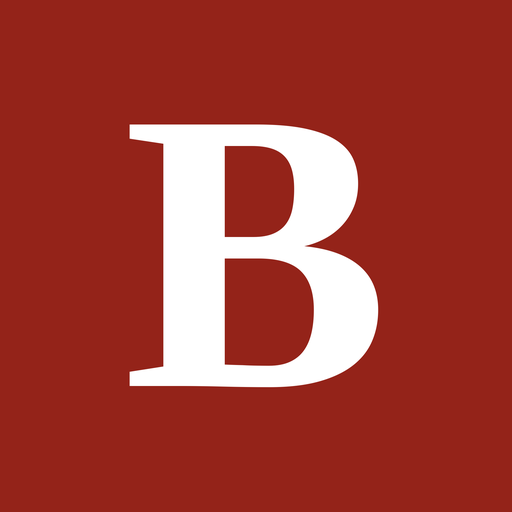
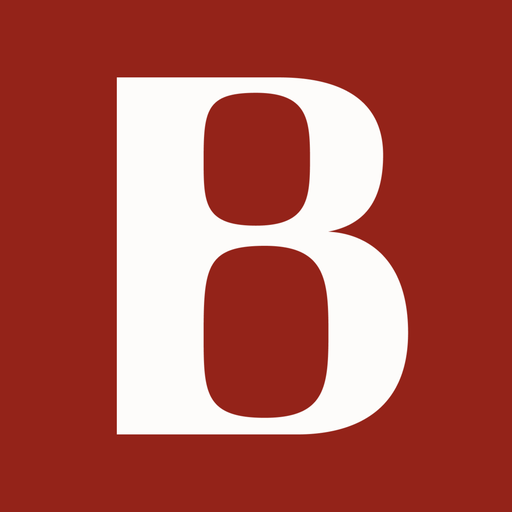
Wejscie na produkcje: ikony marki, mapa strony, roboty i adres kontaktowy
Ikona i obrazek do udostepniania sa teraz z materialow wlascicielki:
kwadratowe "B" jedzie do favicon.ico (z rozmiarem 48 px, po ktory siega
Google), icon-192/512 i apple-touch-icon, a lockup "badz BABA" do
og-image.jpg. Lockup jest w kadrze wysrodkowany, bo w oryginale stal
z prawej - w podgladzie linku wygladalo to jak blad, a nie jak kompozycja.

robots.txt wpuszcza roboty i wskazuje mape strony, sitemap.xml ma
dwadziescia adresow z hreflangami. Adresy sa co do znaku takie same jak
canonical skladany przez LanguageService - strona glowna po polsku
z ukosnikiem, angielska bez - bo rozjazd tych dwoch to dla wyszukiwarki
dwie rozne strony o tej samej tresci.

Adres kontaktowy to kontakt@baba-studio.pl. Dokumenty prawne zyja w bazie
i sa edytowalne z panelu, wiec poprawka w V16 nic by nie dala - stad V17,
ktora podmienia adres w wersji biezacej i zostawia rewizje w spokoju:
rewizja to zapis tego, na co ktos sie kiedys zgodzil.

Przy okazji: MAIL_FROM_NAME bylo opisane w .env.example i czytane przez
backend, ale docker-compose.yml go nie przekazywal, wiec wpis w .env nie
robil nic. Teraz jedzie do kontenera.

Changed region(s): [[0.2188, 0.125, 0.8125, 0.875]]

diff --git a/frontend/src/index.html b/frontend/src/index.html
@@ -7,8 +7,15 @@
   <meta name="viewport" content="width=device-width, initial-scale=1">
   <link rel="preconnect" href="https://app.fitssey.com">
   <link rel="dns-prefetch" href="https://app.fitssey.com">
-  <link rel="icon" type="image/x-icon" href="favicon.ico">
+  <!--
+    Trzy formaty ikony, bo każdy odbiorca sięga po inny: favicon.ico ma w środku
+    rozmiar 48 px, po który Google idzie do wyników wyszukiwania, plik PNG bierze
+    karta w przeglądarce, a apple-touch-icon - skrót dodany na ekran iPhone'a.
+  -->
+  <link rel="icon" type="image/x-icon" href="favicon.ico" sizes="48x48">
+  <link rel="icon" type="image/png" href="icon-192.png" sizes="192x192">
   <link rel="apple-touch-icon" href="apple-touch-icon.png">
+  <link rel="manifest" href="site.webmanifest">
   <!-- Kolor paska adresu na Androidzie - bierze firmową czerwień zamiast szarości. -->
   <meta name="theme-color" content="#942319">
 </head>

diff --git a/frontend/src/app/core/contact-details.ts b/frontend/src/app/core/contact-details.ts
@@ -9,12 +9,12 @@
  * osobna rzecz - te dwa adresy nie muszą być takie same.
  */
 export const CONTACT_DETAILS = {
-	email: 'aleksandrakurasik@baba-studio.pl',
+	email: 'kontakt@baba-studio.pl',
 
 	// Makieta przewiduje osobny adres do współpracy i mediów. Póki go nie ma,
 	// obie pozycje prowadzą do tej samej skrzynki - lepiej to niż adres, który
 	// nie istnieje.
-	mediaEmail: 'aleksandrakurasik@baba-studio.pl',
+	mediaEmail: 'kontakt@baba-studio.pl',
 
 	/** Wersja ze stopki - makieta pokazuje tam numer bez kierunkowego. */
 	phone: '695 060 301',

diff --git a/DEPLOY.md b/DEPLOY.md
@@ -136,7 +136,7 @@ wykonywać ręcznie.
 ```bash
 curl -I https://baba-studio.pl                 # 200 i nagłówek strict-transport-security
 curl -s https://baba-studio.pl/api/settings    # odpowiedź JSON z backendu
-curl -sI https://baba-studio.pl | grep -i robots   # ma być noindex do dnia premiery
+curl -sI https://baba-studio.pl | grep -i robots   # po otwarciu ma być "all"
 ```
 
 Potem zaloguj się na `/admin/login` i wgraj treści.
@@ -258,19 +258,24 @@ same zasady co bazę produkcyjną:
   usuwa go z kopii. Zniknie stamtąd sam po dwóch tygodniach — i to jest powód,
   żeby tego okna nie wydłużać bez potrzeby.
 
-## W dniu otwarcia studia
+## Otwarcie studia
 
-Do tego czasu strona jest celowo niewidoczna dla wyszukiwarek. Żeby ją otworzyć:
+Strona jest otwarta dla wyszukiwarek. W repozytorium siedzi już wszystko, co
+tego dotyczy: `ROBOTS_TAG=all` w `infra/.env.example`, `frontend/public/robots.txt`
+z `Allow: /` i `frontend/public/sitemap.xml` z dwudziestoma adresami (polskie
+i angielskie, bez dokumentów prawnych - te mają `noindex`).
 
-1. W `infra/.env` ustaw `ROBOTS_TAG=all`.
-2. W `frontend/public/robots.txt` zamień treść na wersję docelową z komentarza.
-3. `docker compose up -d --build web`
+Jedyna rzecz, której git nie przeniesie na serwer, to `infra/.env` - jest
+w `.gitignore`, bo trzyma hasła. Po wgraniu zmian sprawdź tam dwie rzeczy:
 
-Osobno, przed premierą, zostaje do zrobienia:
+1. `ROBOTS_TAG=all`
+2. dane poczty: `CONTACT_TO_EMAIL`, `MAIL_FROM`, `SMTP_USERNAME` = `kontakt@baba-studio.pl`,
+   `SMTP_PASSWORD` = hasło aplikacji tego konta
 
-- prawdziwy numer telefonu zamiast `123 456 789` w `core/contact-details.ts`
-  (bez niego nie ma sensu wstawiać danych strukturalnych `LocalBusiness`),
-- `og:image` i `sitemap.xml`,
+potem `docker compose -f infra/docker-compose.yml up -d --build`.
+
+Zostaje do zrobienia:
+
 - klucz API GetResponse, jeśli newsletter ma faktycznie zbierać adresy,
 - **treść regulaminu.** Podstrona `/regulamin` ma same nagłówki, a każdy pusty
   punkt wyświetla na stronie znacznik „TREŚĆ DO UZUPEŁNIENIA". Treść pisze
@@ -287,9 +292,10 @@ Osobno, przed premierą, zostaje do zrobienia:
   znaku z tym, co jest na stronie kontaktu — rozbieżność szkodzi bardziej niż brak,
 - **Google Search Console.** Weryfikacja domeny i zgłoszenie `sitemap.xml`. Bez
   tego nie wiadomo, co zostało zaindeksowane ani co się zepsuło,
-- **prawdziwe zdjęcie zamiast `frontend/public/og-image.jpg`.** Obecny plik to
-  napis na czerwonym tle, zrobiony po to, żeby udostępniony link nie wyglądał na
-  porzucony. Fotografia ze studia zadziała dużo lepiej — rozmiar 1200×630.
+- **docelowo zdjęcie zamiast napisu w `frontend/public/og-image.jpg`.** Obecny
+  plik to firmowy lockup „bądź BABA" na czerwonym tle - spójny z marką i w pełni
+  wystarczający. Fotografia ze studia zwykle klika się lepiej niż typografia,
+  więc gdy będą zdjęcia wnętrza, warto podmienić. Rozmiar 1200×630.
 
 ## Poczta wychodząca
 
